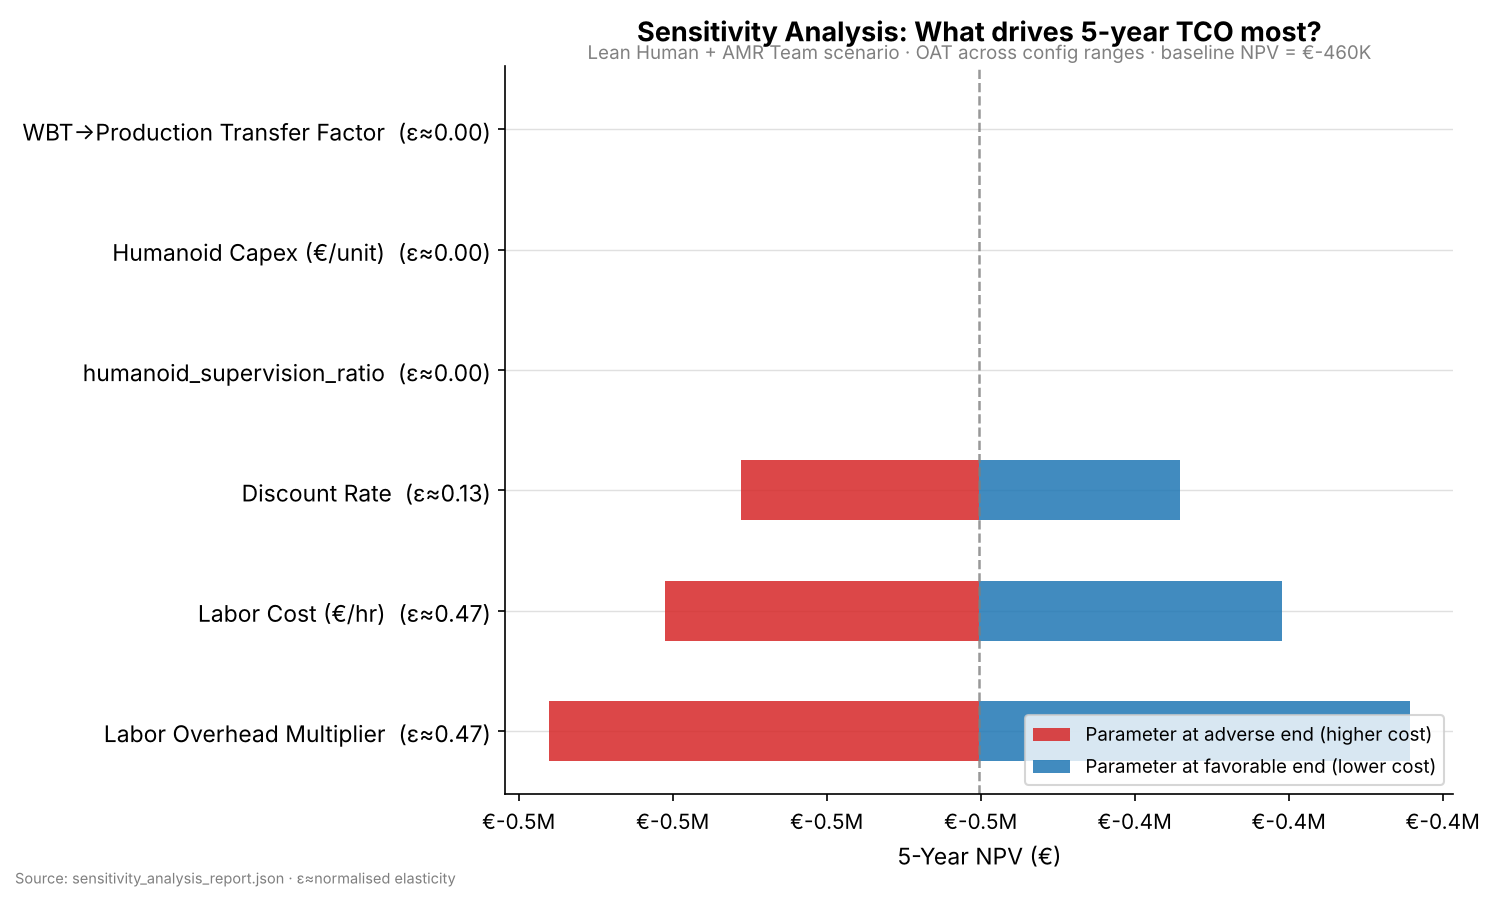
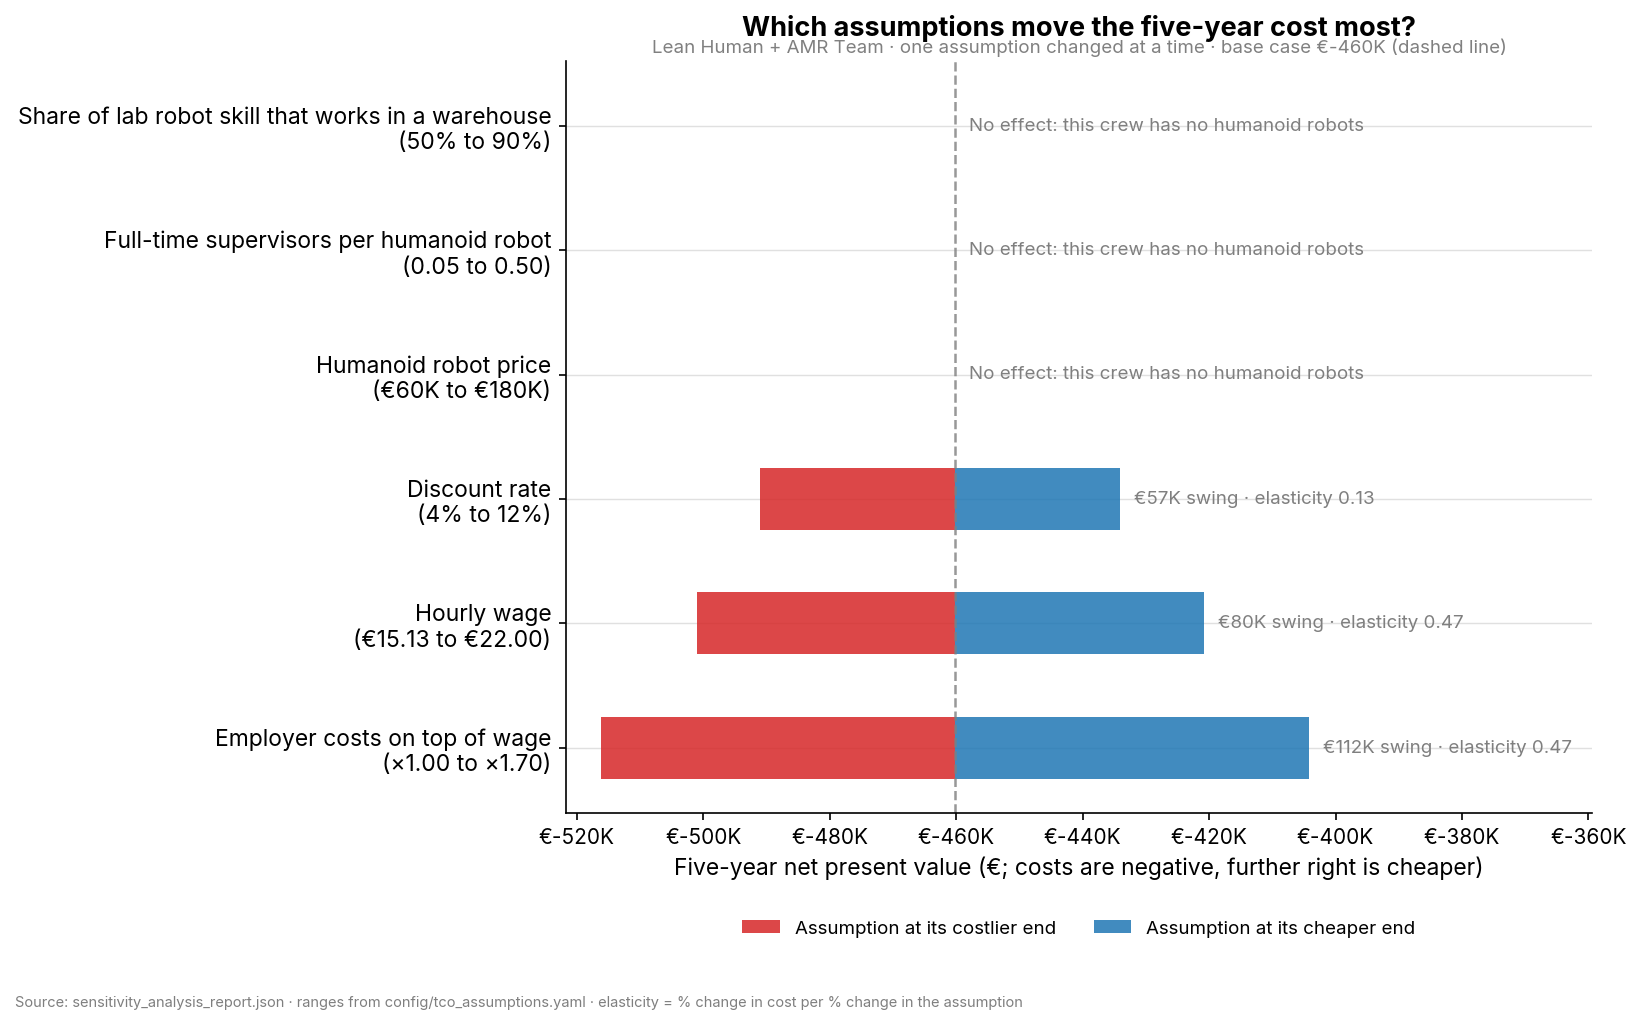
chart 04: distinct axis ticks and plain-language parameter names
The sensitivity tornado labelled its axis EUR -0.5M four times and EUR -0.4M
three times (the whole range is EUR -516K to EUR -404K, so one decimal of
millions cannot separate the ticks), and showed the raw config key
humanoid_supervision_ratio.

Plotting code only (scripts/generate_tornado_chart.py):
- Axis in thousands (EUR -520K ... EUR -360K, 20K steps, all distinct).
- Every parameter has a plain name and its tested range, e.g.
  "Employer costs on top of wage (x1.00 to x1.70)". Missing entries now
  raise instead of falling back to the code name.
- Each bar states its swing and elasticity; the three humanoid inputs
  say "No effect: this crew has no humanoid robots" instead of an empty row.
- Legend moved below the axis so it no longer covers a bar.
- Ties sorted by name, so the PNG is byte-identical across runs.

Numbers unchanged: inputs are the committed sensitivity report and the OAT
table regenerated with python -m warehouse_humanoid_tco.analysis.sensitivity,
which matches its golden-master hash. Swings: overhead 112K, wage 80K,
discount rate 57K, humanoid inputs 0; base EUR -460K.

Chart 04 is not in chart_data_manifest.json, so no hash to update.
New test in test_f243_euro_axis_ticks.py renders the real script and fails
on the old code (duplicate ticks) and on any code name on the axis.

Claude-Session: https://claude.ai/code/session_01KzncQFR615Y3CA34BkhoXm

diff --git a/scripts/generate_tornado_chart.py b/scripts/generate_tornado_chart.py
@@ -3,6 +3,7 @@
 from __future__ import annotations
 
 import json
+from collections.abc import Callable
 from pathlib import Path
 
 import matplotlib.pyplot as plt
@@ -11,22 +12,38 @@ import polars as pl
 from warehouse_humanoid_tco.visualization.chart_style import (
     ADVERSE,
     BASELINE,
-    EURO_MILLIONS,
+    EURO_THOUSANDS,
     RECOMMENDED,
     apply_style,
 )
 
-PARAM_LABELS = {
-    "humanoid_capex_eur": "Humanoid Capex (€/unit)",
-    "human_wage_eur": "Labor Cost (€/hr)",
-    "human_overhead_mult": "Labor Overhead Multiplier",
-    "discount_rate": "Discount Rate",
-    "transfer_factor": "WBT→Production Transfer Factor",
+# Plain-language name and unit formatter for each OAT parameter in
+# config/tco_assumptions.yaml::sensitivity.oat. Every OAT parameter needs an entry;
+# tests/governance/test_f243_euro_axis_ticks.py fails if one is missing.
+PARAM_LABELS: dict[str, tuple[str, Callable[[float], str]]] = {
+    "humanoid_capex_eur": ("Humanoid robot price", lambda v: f"€{v / 1000:,.0f}K"),
+    "human_wage_eur": ("Hourly wage", lambda v: f"€{v:,.2f}"),
+    "human_overhead_mult": ("Employer costs on top of wage", lambda v: f"×{v:.2f}"),
+    "discount_rate": ("Discount rate", lambda v: f"{v * 100:.0f}%"),
+    "transfer_factor": (
+        "Share of lab robot skill that works in a warehouse",
+        lambda v: f"{v * 100:.0f}%",
+    ),
+    "humanoid_supervision_ratio": (
+        "Full-time supervisors per humanoid robot",
+        lambda v: f"{v:.2f}",
+    ),
 }
 
 
-def main() -> None:
-    project_root = Path(__file__).parent.parent
+def parameter_label(parameter: str, low: float, high: float) -> str:
+    """Readable axis label for one OAT parameter, with the range it was moved over."""
+    name, fmt = PARAM_LABELS[parameter]
+    return f"{name}\n({fmt(low)} to {fmt(high)})"
+
+
+def main(project_root: Path | None = None) -> Path:
+    project_root = project_root or Path(__file__).parent.parent
     oat_path = project_root / "data" / "processed" / "sensitivity_oat_results.parquet"
     out_path = project_root / "reports" / "executive_charts" / "04_sensitivity_tornado.png"
     report = json.loads((project_root / "reports" / "sensitivity_analysis_report.json").read_text())
@@ -49,34 +66,45 @@ def main() -> None:
             pl.col("npv_eur").max().alias("npv_high"),
         )
         .with_columns((pl.col("npv_high") - pl.col("npv_low")).abs().alias("npv_range"))
-        .sort("npv_range", descending=True)
+        .sort(["npv_range", "parameter"], descending=[True, False])
     )
 
     params = summary["parameter"].to_list()
     npv_low = summary["npv_low"].to_list()
     npv_high = summary["npv_high"].to_list()
 
-    labels = [f"{PARAM_LABELS.get(p, p)}  (ε≈{elasticities[p]:.2f})" for p in params]
+    ranges = report["oat_parameter_ranges"]
+    labels = [parameter_label(p, *ranges[p]) for p in params]
 
-    fig, ax = plt.subplots(figsize=(10, 6))
+    fig, ax = plt.subplots(figsize=(11, 6.5))
 
     y_pos = range(len(params))
 
-    for i, (low, high, _label) in enumerate(zip(npv_low, npv_high, labels, strict=True)):
+    span = max(npv_high) - min(npv_low)
+    for i, (param, low, high) in enumerate(zip(params, npv_low, npv_high, strict=True)):
         # Low side (more negative = higher cost)
         ax.barh(i, low - baseline_npv, left=baseline_npv, color=ADVERSE, alpha=0.85, height=0.5)
         # High side (less negative = lower cost)
         ax.barh(
             i, high - baseline_npv, left=baseline_npv, color=RECOMMENDED, alpha=0.85, height=0.5
         )
+        if high - low < 1.0:
+            note = "No effect: this crew has no humanoid robots"
+            ax.text(baseline_npv + span * 0.02, i, note, va="center", fontsize=9, color=BASELINE)
+        else:
+            swing = f"€{(high - low) / 1000:,.0f}K swing · elasticity {elasticities[param]:.2f}"
+            ax.text(high + span * 0.02, i, swing, va="center", fontsize=9, color=BASELINE)
 
     ax.set_yticks(list(y_pos))
     ax.set_yticklabels(labels, fontsize=11)
     ax.axvline(baseline_npv, color=BASELINE, linewidth=1.2, linestyle="--", alpha=0.8)
 
-    ax.set_xlabel("5-Year NPV (€)", fontsize=11)
+    ax.set_xlabel(
+        "Five-year net present value (€; costs are negative, further right is cheaper)",
+        fontsize=11,
+    )
     ax.set_title(
-        "Sensitivity Analysis: What drives 5-year TCO most?",
+        "Which assumptions move the five-year cost most?",
         fontsize=13,
         fontweight="bold",
         pad=12,
@@ -84,8 +112,8 @@ def main() -> None:
     ax.text(
         0.5,
         1.01,
-        f"{report['scenario_id']} scenario · OAT across config ranges · "
-        f"baseline NPV = €{baseline_npv/1000:,.0f}K",
+        f"{report['scenario_id']} · one assumption changed at a time · "
+        f"base case €{baseline_npv / 1000:,.0f}K (dashed line)",
         transform=ax.transAxes,
         ha="center",
         fontsize=9,
@@ -93,27 +121,38 @@ def main() -> None:
     )
 
     apply_style(ax)
-    ax.xaxis.set_major_formatter(EURO_MILLIONS)
+    ax.xaxis.set_major_formatter(EURO_THOUSANDS)
+    ax.set_xlim(min(npv_low) - span * 0.05, max(npv_high) + span * 0.40)
 
     from matplotlib.patches import Patch
 
     legend_elements = [
-        Patch(facecolor=ADVERSE, alpha=0.85, label="Parameter at adverse end (higher cost)"),
-        Patch(facecolor=RECOMMENDED, alpha=0.85, label="Parameter at favorable end (lower cost)"),
+        Patch(facecolor=ADVERSE, alpha=0.85, label="Assumption at its costlier end"),
+        Patch(facecolor=RECOMMENDED, alpha=0.85, label="Assumption at its cheaper end"),
     ]
-    ax.legend(handles=legend_elements, loc="lower right", fontsize=9)
+    ax.legend(
+        handles=legend_elements,
+        loc="upper center",
+        bbox_to_anchor=(0.5, -0.12),
+        ncol=2,
+        frameon=False,
+        fontsize=9,
+    )
 
     fig.text(
         0.01,
-        0.01,
-        "Source: sensitivity_analysis_report.json · ε≈normalised elasticity",
+        -0.04,
+        "Source: sensitivity_analysis_report.json · ranges from config/tco_assumptions.yaml · "
+        "elasticity = % change in cost per % change in the assumption",
         fontsize=7,
         color=BASELINE,
     )
     plt.tight_layout()
     out_path.parent.mkdir(parents=True, exist_ok=True)
     plt.savefig(out_path, dpi=150, bbox_inches="tight")
+    plt.close(fig)
     print(f"Saved tornado chart → {out_path}")
+    return out_path
 
 
 if __name__ == "__main__":

diff --git a/tests/governance/test_f243_euro_axis_ticks.py b/tests/governance/test_f243_euro_axis_ticks.py
@@ -8,6 +8,8 @@ tick labels Matplotlib actually produced, and compares each to its tick position
 
 from __future__ import annotations
 
+import importlib.util
+import json
 import re
 import shutil
 from collections.abc import Callable
@@ -128,3 +130,77 @@ def test_chart_09_frontier_ticks_show_plotted_values(
 
     assert result["chart"].exists()
     _assert_ticks_match_positions(get_axes())
+
+
+EURO_K_LABEL = re.compile(r"^€(-?[\d,]+)K$")
+
+
+def _load_tornado_module() -> object:
+    spec = importlib.util.spec_from_file_location(
+        "generate_tornado_chart", REPO_ROOT / "scripts" / "generate_tornado_chart.py"
+    )
+    assert spec and spec.loader
+    module = importlib.util.module_from_spec(spec)
+    spec.loader.exec_module(module)
+    return module
+
+
+def _tornado_project(tmp_path: Path) -> Path:
+    """A scratch project holding the committed sensitivity report and an OAT table built from it."""
+    report = json.loads((REPO_ROOT / "reports" / "sensitivity_analysis_report.json").read_text())
+    base = -460_171.33
+    rows: dict[str, list] = {"parameter": [], "npv_eur": [], "delta_vs_base": []}
+    for item in report["oat_elasticity_ranking"]:
+        for sign in (-1.0, 0.0, 1.0):
+            delta = sign * item["peak_delta_vs_base_eur"]
+            rows["parameter"].append(item["parameter"])
+            rows["npv_eur"].append(base + delta)
+            rows["delta_vs_base"].append(delta)
+    (tmp_path / "data" / "processed").mkdir(parents=True)
+    (tmp_path / "reports").mkdir()
+    pl.DataFrame(rows).write_parquet(
+        tmp_path / "data" / "processed" / "sensitivity_oat_results.parquet"
+    )
+    (tmp_path / "reports" / "sensitivity_analysis_report.json").write_text(json.dumps(report))
+    return tmp_path
+
+
+def test_chart_04_tornado_ticks_are_distinct_and_labels_readable(
+    tmp_path: Path, monkeypatch: pytest.MonkeyPatch
+) -> None:
+    """Chart 04 once labelled every tick €-0.5M or €-0.4M and showed raw config keys."""
+    module = _load_tornado_module()
+    seen: dict[str, list] = {}
+    original = Figure.savefig
+
+    def spy(self: Figure, *args: object, **kwargs: object) -> None:
+        self.canvas.draw()
+        ax = self.axes[0]
+        low, high = sorted(ax.xaxis.get_view_interval())
+        seen["x"] = [
+            (tick.label1.get_text(), loc)
+            for loc, tick in zip(
+                ax.xaxis.get_majorticklocs(), ax.xaxis.get_major_ticks(), strict=True
+            )
+            if low <= loc <= high
+        ]
+        seen["y"] = [label.get_text() for label in ax.get_yticklabels()]
+        original(self, *args, **kwargs)  # type: ignore[arg-type]
+
+    monkeypatch.setattr(Figure, "savefig", spy)
+    out = module.main(_tornado_project(tmp_path))  # type: ignore[attr-defined]
+    assert out.exists()
+
+    labels = [text for text, _ in seen["x"]]
+    assert len(labels) >= 3 and len(set(labels)) == len(labels), f"duplicate ticks: {labels}"
+    for text, loc in seen["x"]:
+        match = EURO_K_LABEL.match(text)
+        assert match, f"unexpected tick label {text!r}"
+        assert abs(float(match.group(1).replace(",", "")) * 1000 - loc) <= 500, (text, loc)
+
+    report = json.loads((REPO_ROOT / "reports" / "sensitivity_analysis_report.json").read_text())
+    parameters = report["oat_parameter_ranges"].keys()
+    assert set(parameters) <= module.PARAM_LABELS.keys()  # type: ignore[attr-defined]
+    assert len(seen["y"]) == len(parameters)
+    for label in seen["y"]:
+        assert "_" not in label, f"code name on the axis: {label!r}"
